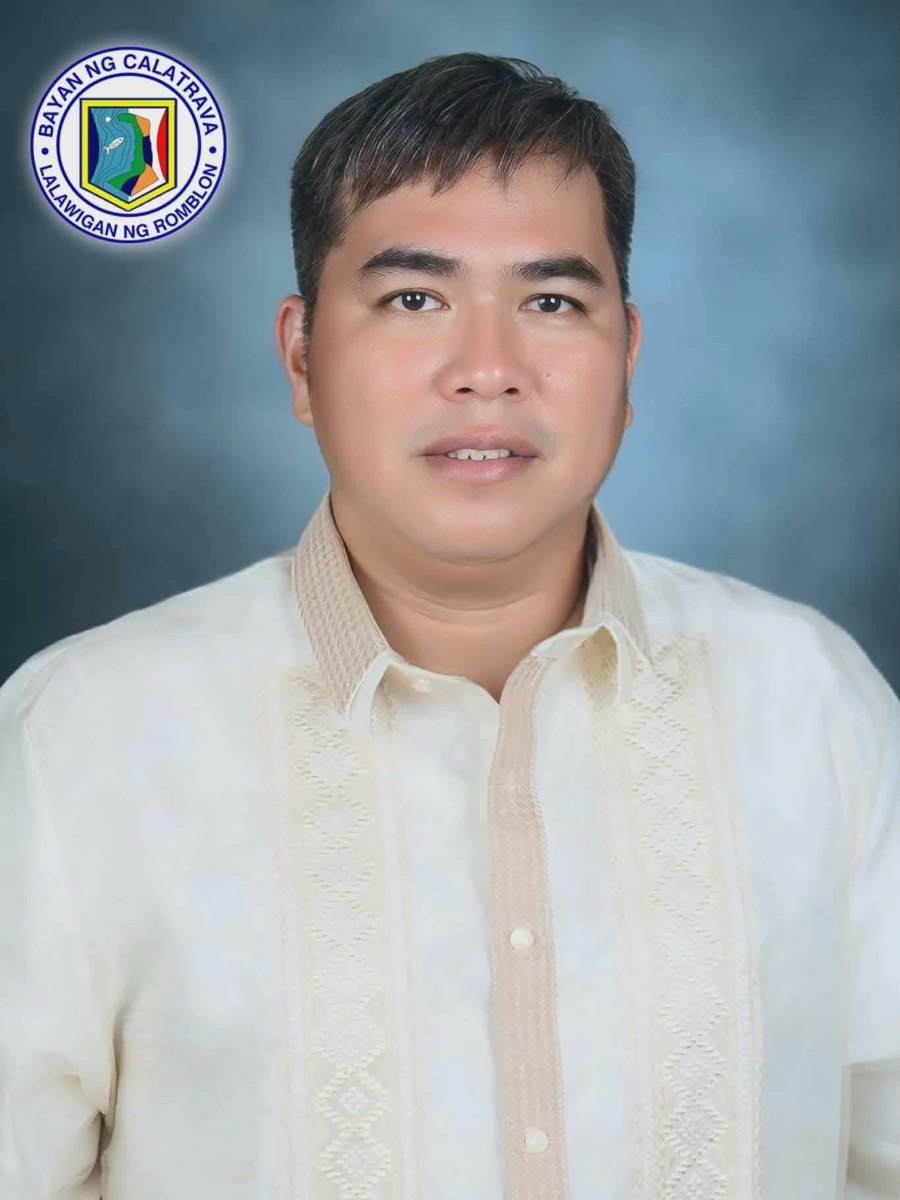
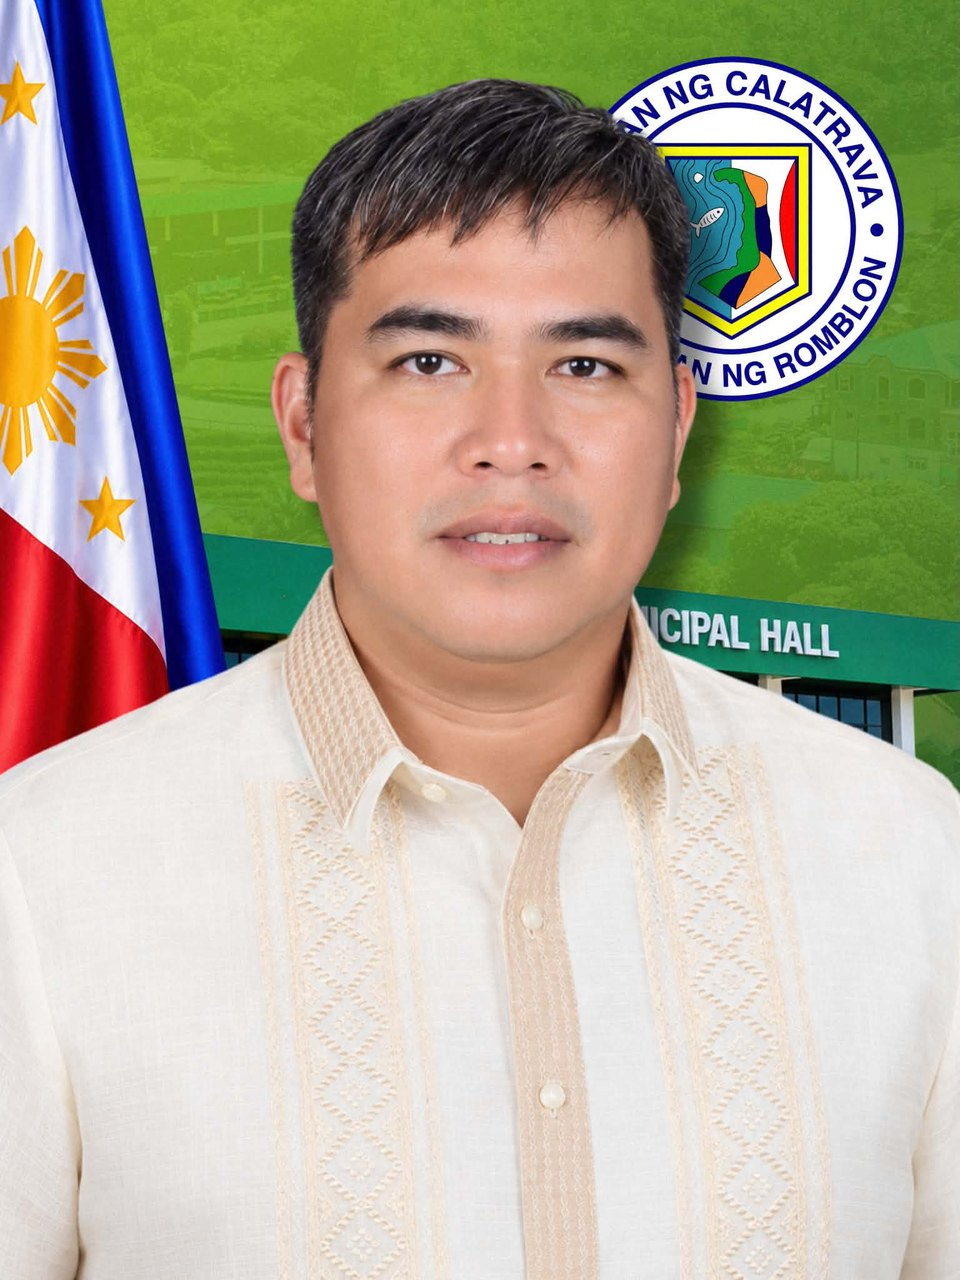
Replace all 13 portraits with the LGU's matched set
The LGU re-shot every elected official as one composite series — the same
municipal-hall backdrop and seal as the Mayor's portrait, no caption bands,
all 3:4 — and supplied them under the existing filenames, so no mapping
changed. The Mayor's file is now Portrait_Mayor.jpg; the superseded
Portrait_Mayor1/2.jpg and MBF Portrait.png are removed from the repo (the
LGU archives them locally under assets/images/Archive/, now gitignored).

Files were resized to 960x1280. Note for next time: the LGU's exports are
compressed harder than a re-save, so this grew them by ~23% — use future
drops as-is.

diff --git a/MEMORY.md b/MEMORY.md
@@ -307,7 +307,22 @@ Audited https://rjfabella.github.io/calatrava-lgu/ and fixed everything found.
 - Re-audited all 8 pages at 375px: no overflow, no text under 12.5px, no
   contrast failures, no tap targets under 24px, no images missing alt.
 
-**Officials' portraits — all 12 remaining added 2026-09-12.**
+**Portraits replaced with a matched set (2026-09-16).** The LGU re-shot all
+13 as one composite series — same municipal-hall green backdrop with flag,
+same seal, **no caption bands**, all 1536×2047 (3:4) — and dropped them in
+under the same filenames, so `officials.json` needed only one change: the
+Mayor's file is now `Portrait_Mayor.jpg` (the old `Portrait_Mayor1/2.jpg`
+and `MBF Portrait.png` went into `assets/images/Archive/`, which is now
+gitignored — they survive in git history). Faces were cross-checked against
+the previously verified set; the mapping is unchanged.
+**Lesson: don't re-encode the LGU's exports.** They arrive already compressed
+harder than a q86 re-save, so downscaling 1536→960 *grew* the files by ~23%
+(2.0 MB → 2.4 MB total). The 960×1280 versions are what's committed — fine
+visually and correctly sized for every render — but the next drop should be
+used as-is. If bytes ever matter, ask RJ for the originals rather than
+re-encoding a second generation.
+
+**Officials' portraits — all 12 first added 2026-09-12.**
 - The LGU dropped 14 files into `assets/images/` named by initials
   (`Portrait_VM-EFF.jpg`, `Portrait_SB-HFF.jpg`, …). **Every mapping was
   confirmed against the name printed on the photo itself**, not just the
